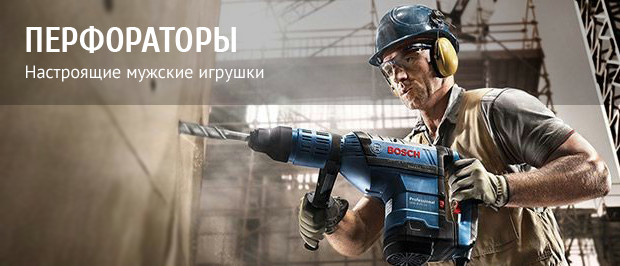
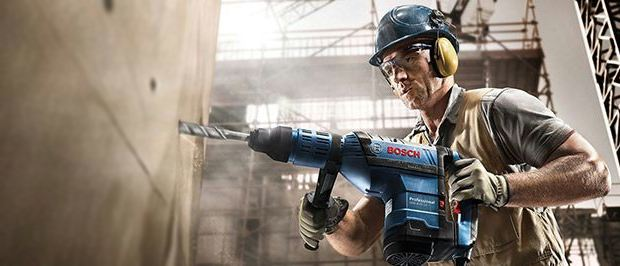
переделал слайдеры, теперь текст - это текст, а не часть картинки )

diff --git a/index.html b/index.html
@@ -4,7 +4,7 @@
     <title>Техномарт</title>
     <meta charset="utf-8">
     <meta name="description" content="Интернет-магазин строительных материалов и инструментов для ремонта">
-    <link href="css/style-min.css" rel="stylesheet">
+    <link href="css/style.css" rel="stylesheet">
     <link href="https://fonts.googleapis.com/css?family=PT+Sans:400,700&amp;subset=latin,cyrillic" rel="stylesheet">
     <link href="https://fonts.googleapis.com/css?family=Cuprum:400,400italic,700&amp;subset=latin,cyrillic" rel="stylesheet">
   </head>
@@ -84,8 +84,18 @@
             </div>
             <div class="slider-inner">
               <div class="slider-slides">
-                  <img src="img/slider1.jpg" width="620" height="266" alt="перфораторы">
-                  <img src="img/slider2.jpg" width="620" height="266" alt="дрели">
+                <div class="slider slider-1">
+                  <div class="info">
+                    <h3>перфораторы</h3>
+                    <p>Настоящие мужские игрушки</p>  
+                  </div>
+                </div>
+                <div class="slider slider-2">
+                  <div class="info">
+                    <h3>дрели</h3>
+                    <p>Соседям на радость</p>  
+                  </div>
+                </div>  
               </div>                        
             </div>
             <a class="btn" href="#">открыть каталог</a>            

diff --git a/css/style.css b/css/style.css
@@ -1012,10 +1012,50 @@ body {
   width: 200%;
 }
 
-.slider-slides img {
+.slider-slides .slider {
   float: left;
   width: 620px;
   height: 266px;
+  padding: 0;
+  margin: 0;
+}
+
+.slider-slides .info {
+  width: auto;
+  min-height: 85px;
+  padding: 10px 25px;
+  
+  color: #fff;
+  background: rgba(0, 0, 0, 0.25);
+}
+
+.slider-slides h3 {
+  margin: 0;
+  margin-top: 13px;
+  margin-bottom: 8px;
+  
+  font-family: 'Cuprum', Arial, sans-serif;
+  font-weight: bold;
+  font-size: 36px;
+  line-height: 1.1em;
+  text-transform: uppercase;  
+}
+
+.slider-slides p {
+  margin: 0;
+  padding: 0;
+  
+  font-family: 'PT Sans', Arial, sans-serif;
+  font-size: 18px;
+  line-height: 24px;  
+}
+
+.slider-slides .slider-1 {
+  background: #fff url('../img/slider1.jpg') 50% 50% no-repeat;  
+}
+
+.slider-slides .slider-2 {
+  background: #fff url('../img/slider2.jpg') 50% 50% no-repeat;  
 }
 
 .big-promo input{
